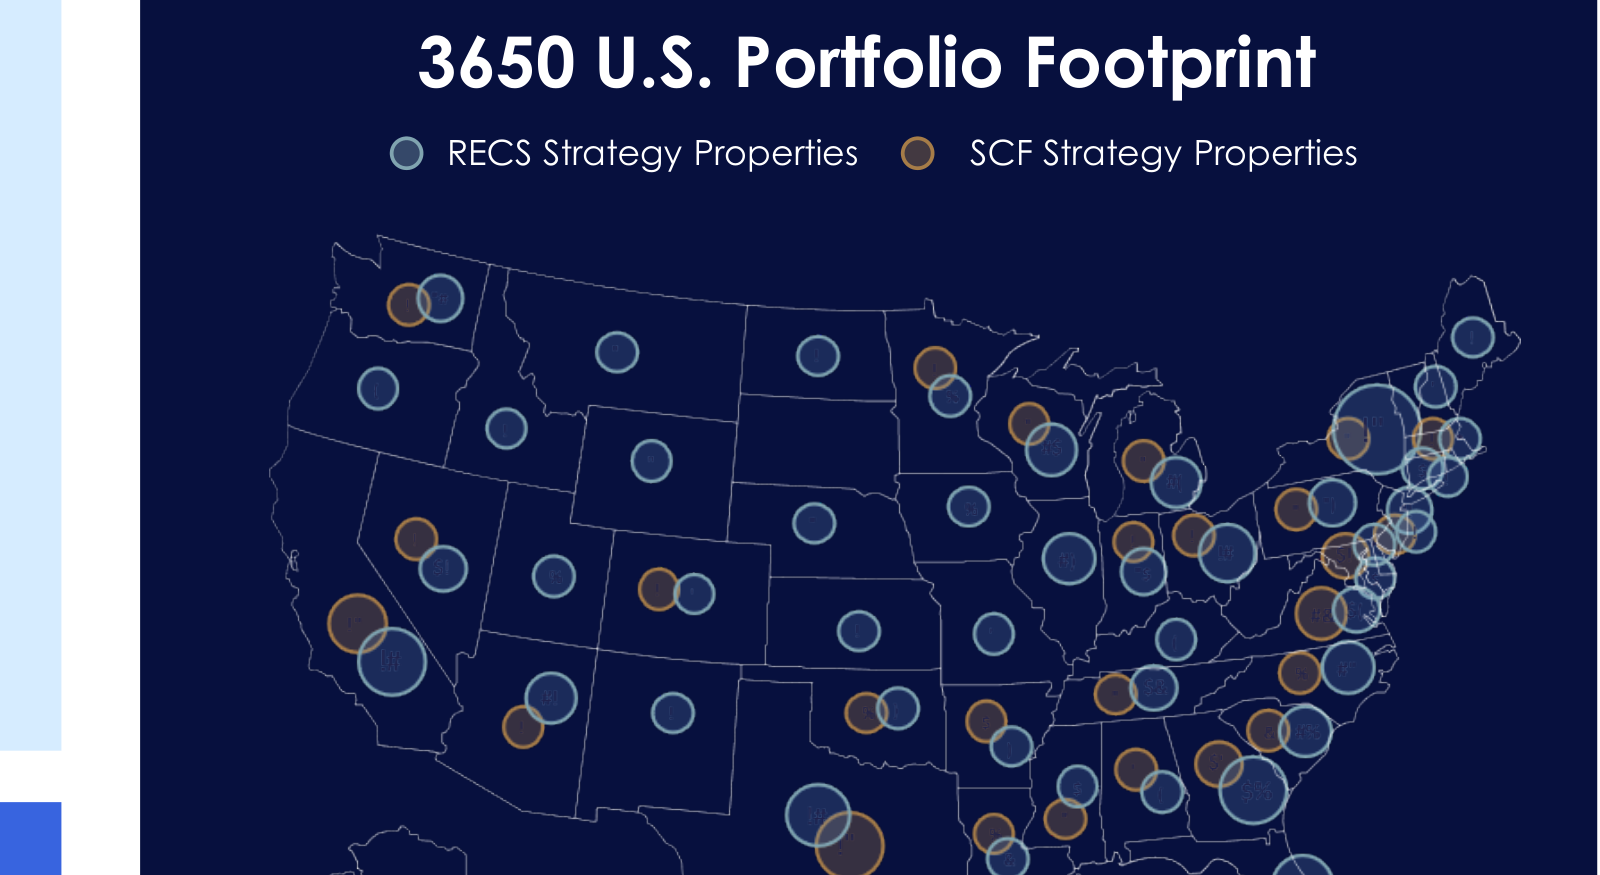
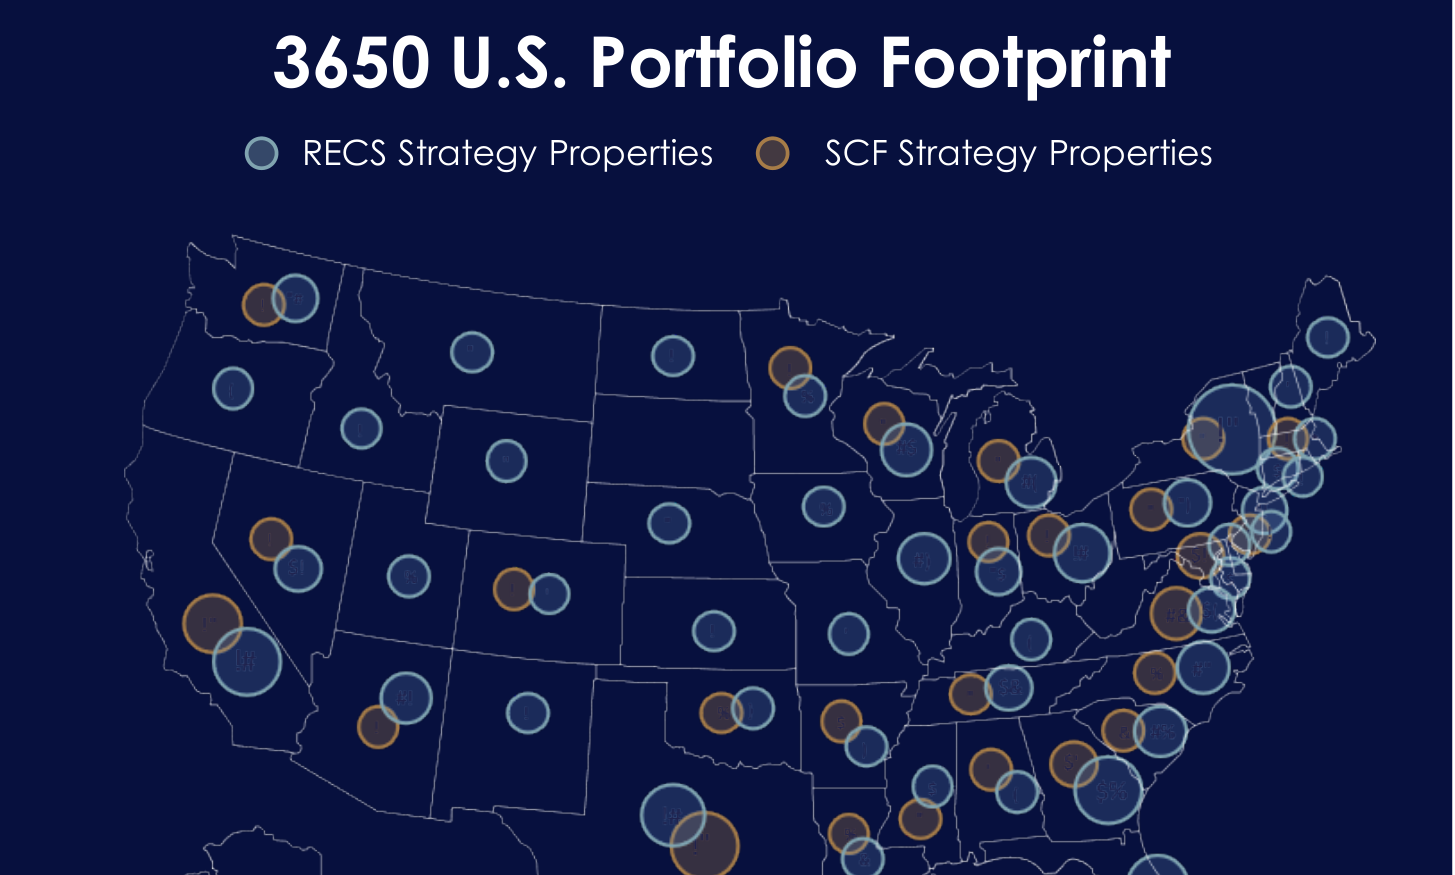
Crop map image: remove 145px light blue left margin from PNG
The white strip was baked into the image file (rgb 214,236,255 for
the first 140px). Cropped the actual PNG from 1600px to 1455px wide.
Removed all CSS workarounds (scale, clip-path, dark background).

diff --git a/styles.css b/styles.css
@@ -1997,11 +1997,6 @@ body.video-modal-open {
   grid-column: 2;
   grid-row: 1 / span 3;
   border: none;
-  background: #1a2332;
-}
-
-.portfolio-footprint .metric-photo img {
-  object-position: center top;
 }
 
 .metrics-grid-wide {
